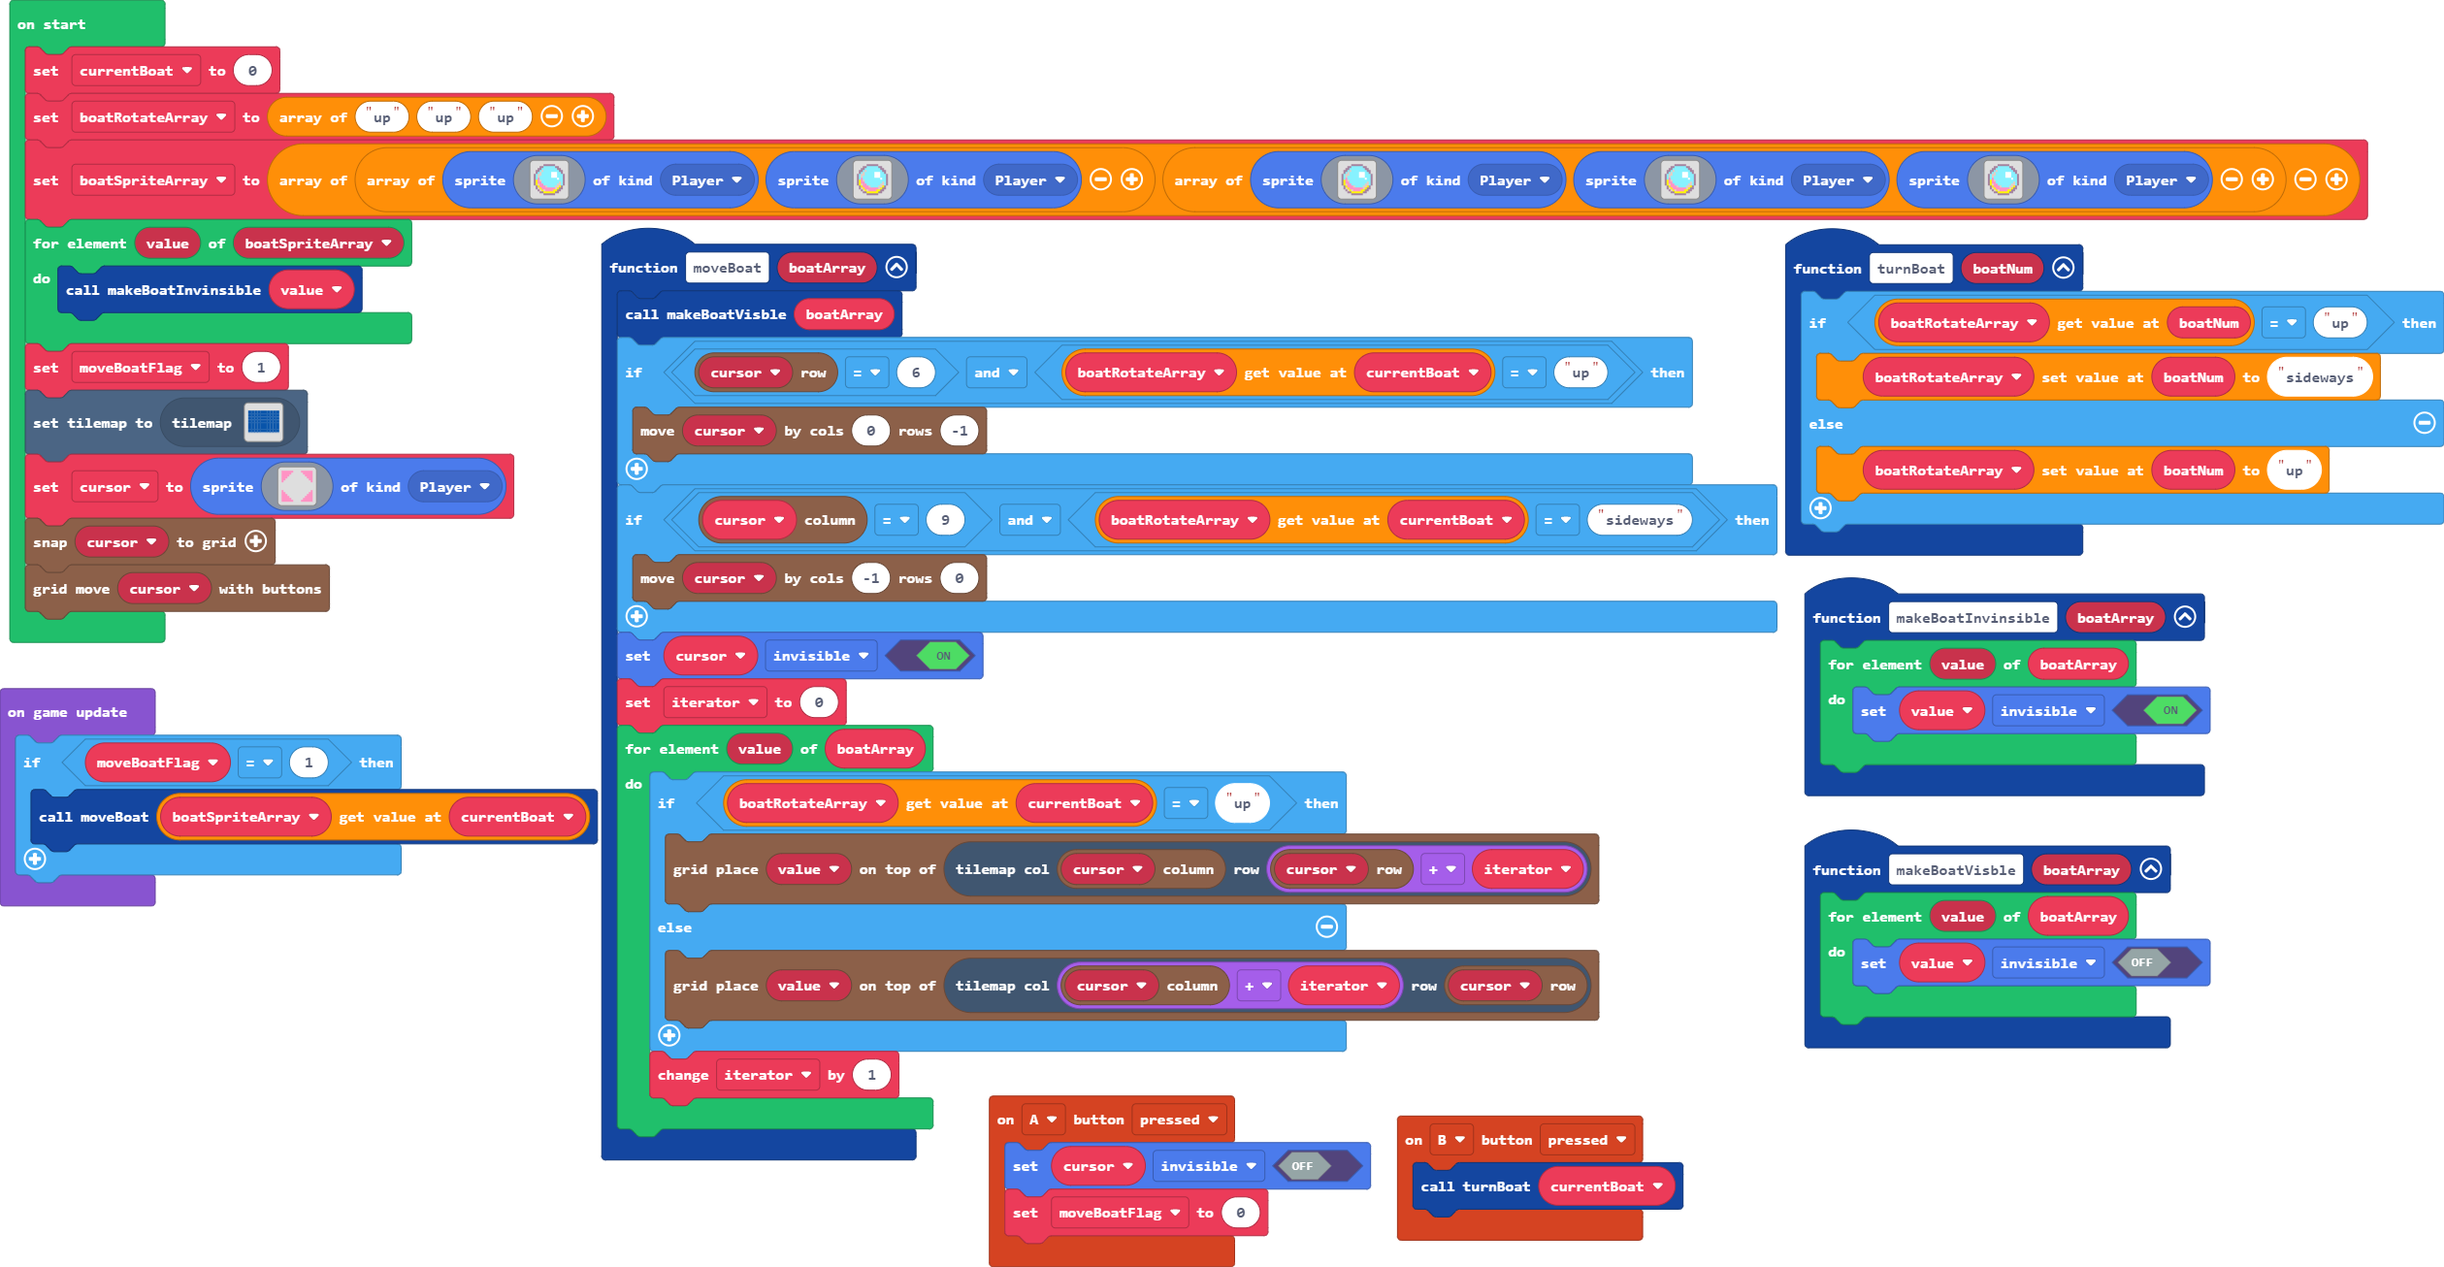
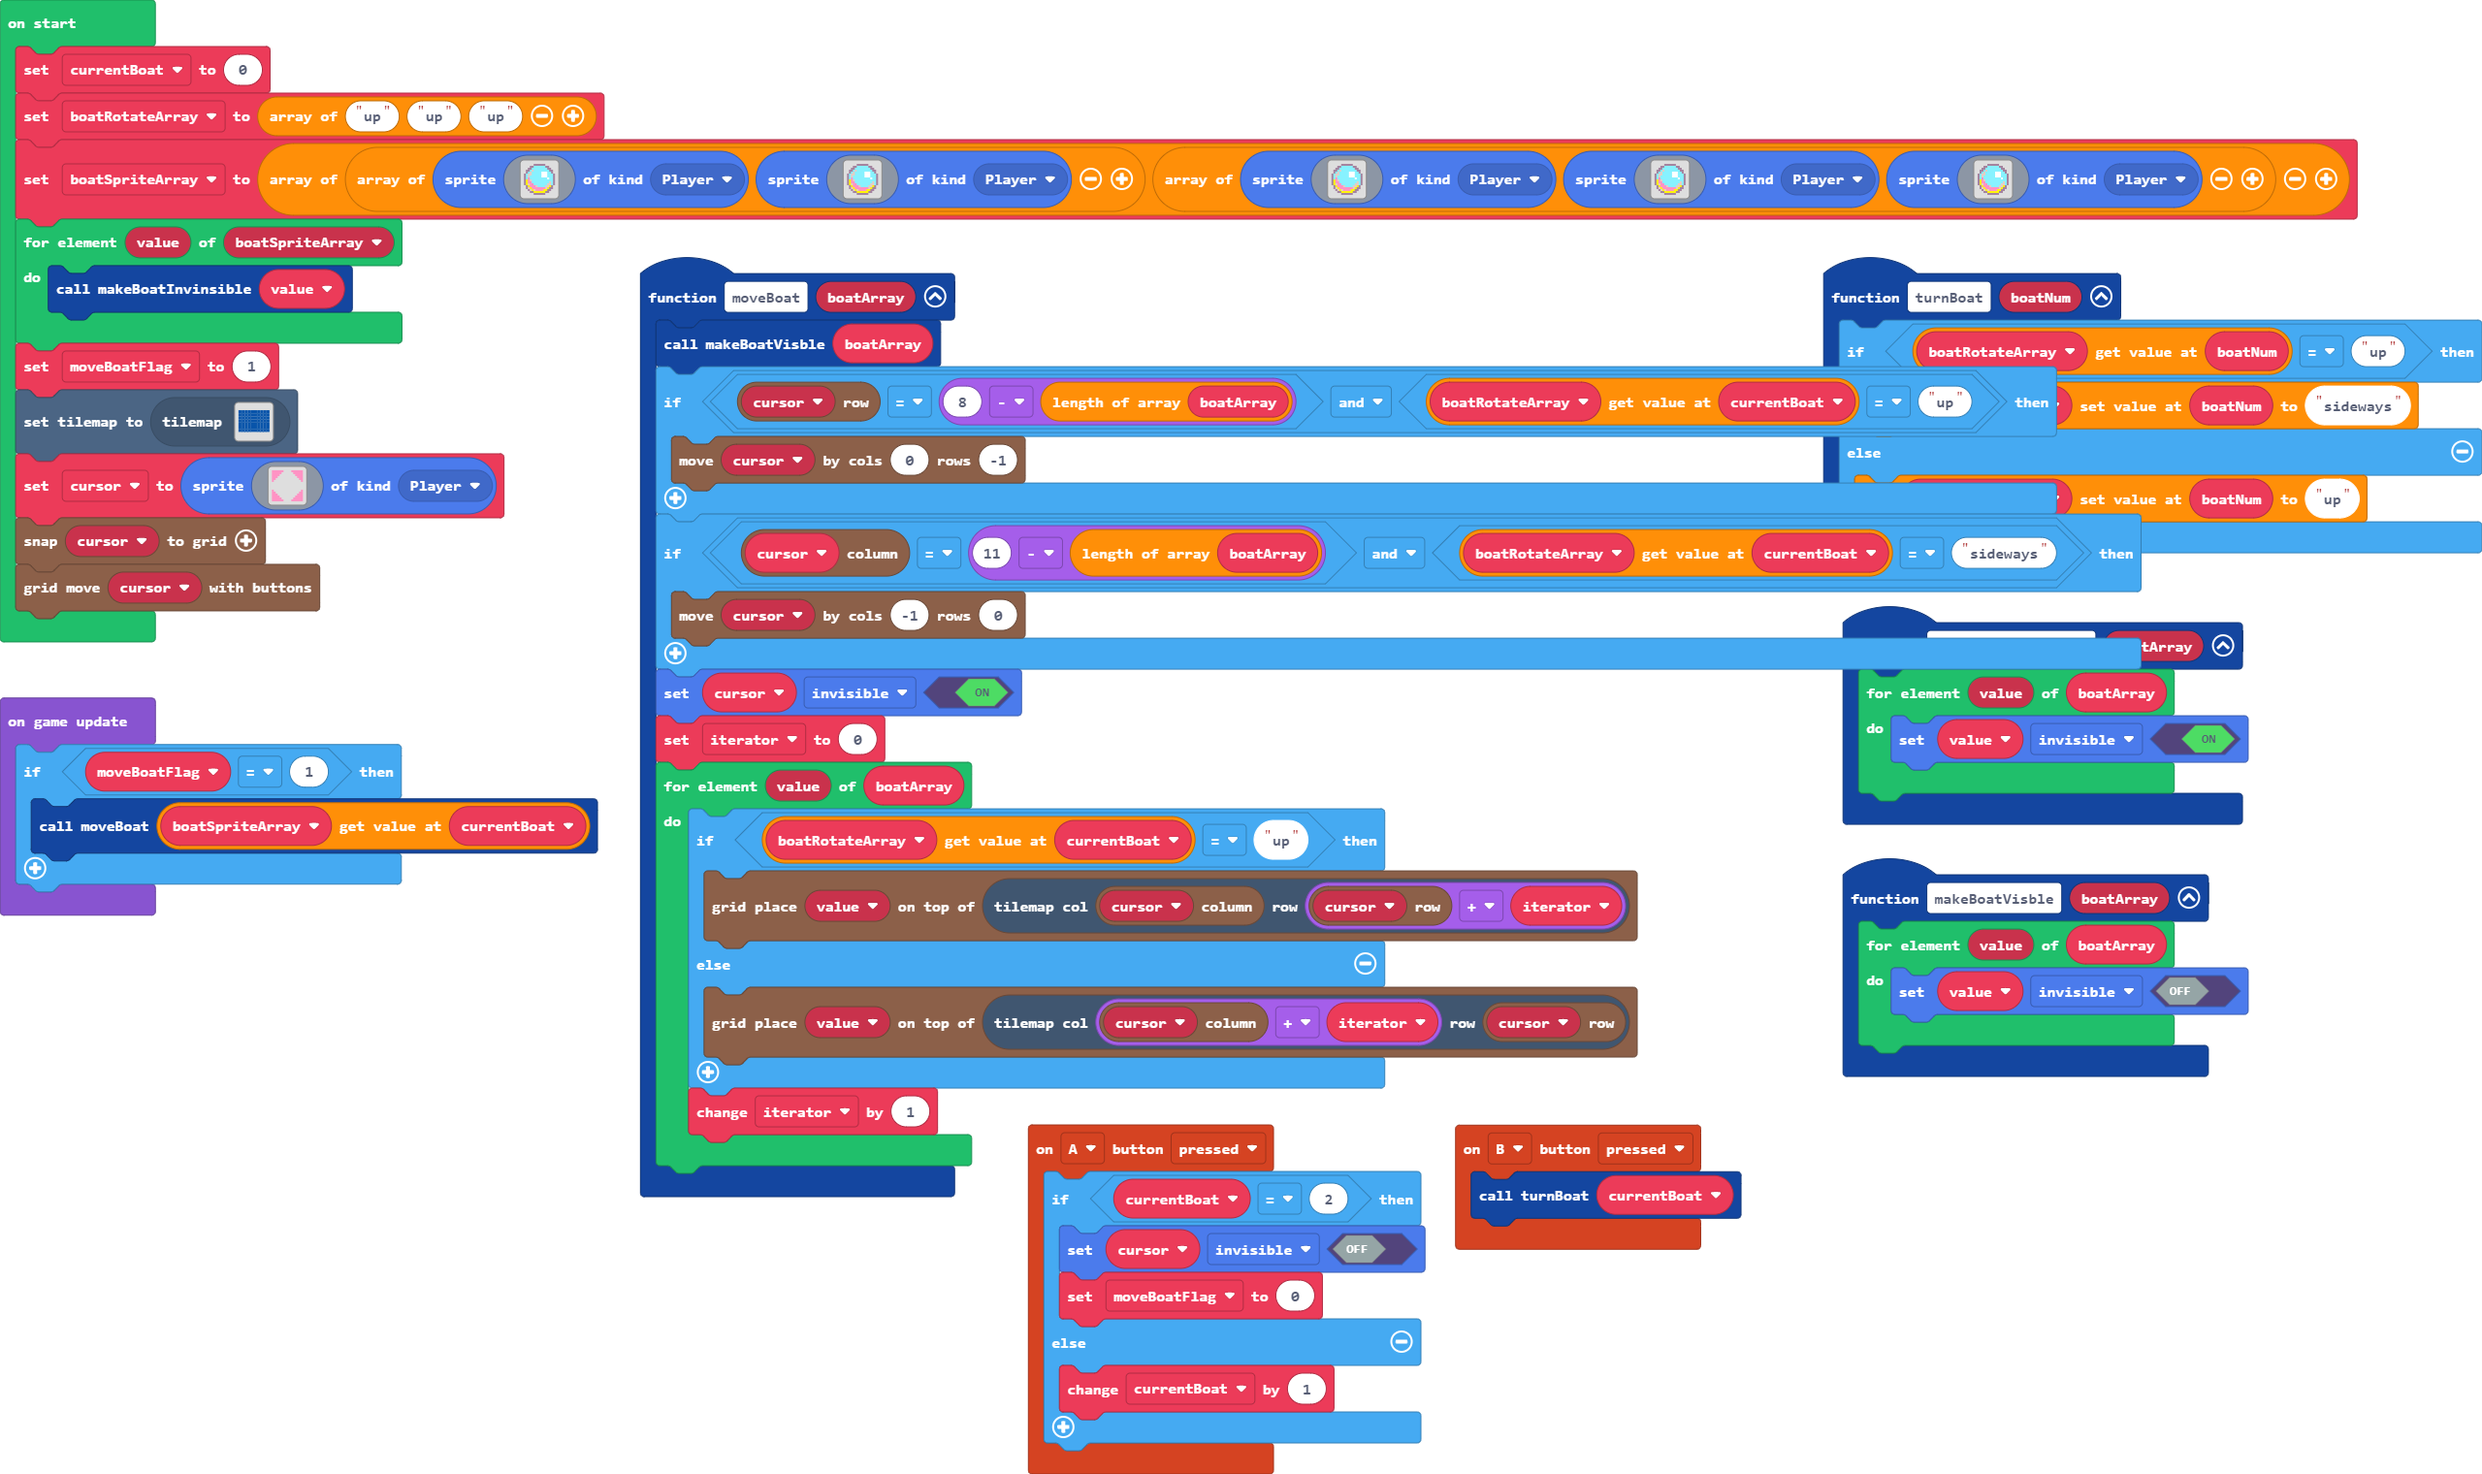
2nd boat move

diff --git a/main.ts b/main.ts
@@ -2,8 +2,12 @@ controller.B.onEvent(ControllerButtonEvent.Pressed, function () {
     turnBoat(currentBoat)
 })
 controller.A.onEvent(ControllerButtonEvent.Pressed, function () {
-    cursor.setFlag(SpriteFlag.Invisible, false)
-    moveBoatFlag = 0
+    if (currentBoat == 2) {
+        cursor.setFlag(SpriteFlag.Invisible, false)
+        moveBoatFlag = 0
+    } else {
+        currentBoat += 1
+    }
 })
 function makeBoatVisble (boatArray: Sprite[]) {
     for (let value of boatArray) {
@@ -12,10 +16,10 @@ function makeBoatVisble (boatArray: Sprite[]) {
 }
 function moveBoat (boatArray: any[]) {
     makeBoatVisble(boatArray)
-    if (grid.spriteRow(cursor) == 6 && boatRotateArray[currentBoat] == "up") {
+    if (grid.spriteRow(cursor) == 8 - boatArray.length && boatRotateArray[currentBoat] == "up") {
         grid.move(cursor, 0, -1)
     }
-    if (grid.spriteCol(cursor) == 9 && boatRotateArray[currentBoat] == "sideways") {
+    if (grid.spriteCol(cursor) == 11 - boatArray.length && boatRotateArray[currentBoat] == "sideways") {
         grid.move(cursor, -1, 0)
     }
     cursor.setFlag(SpriteFlag.Invisible, true)
